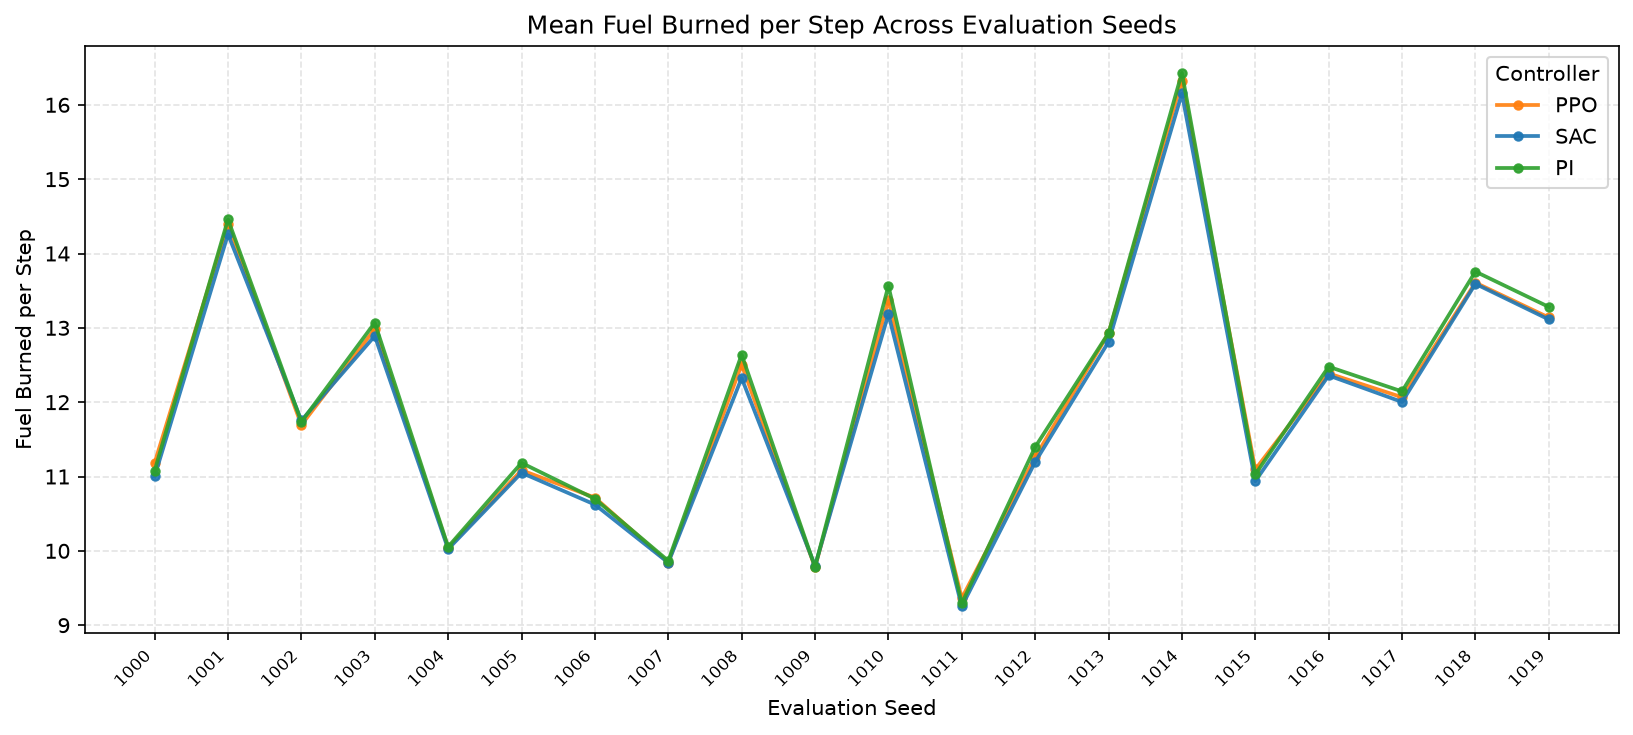
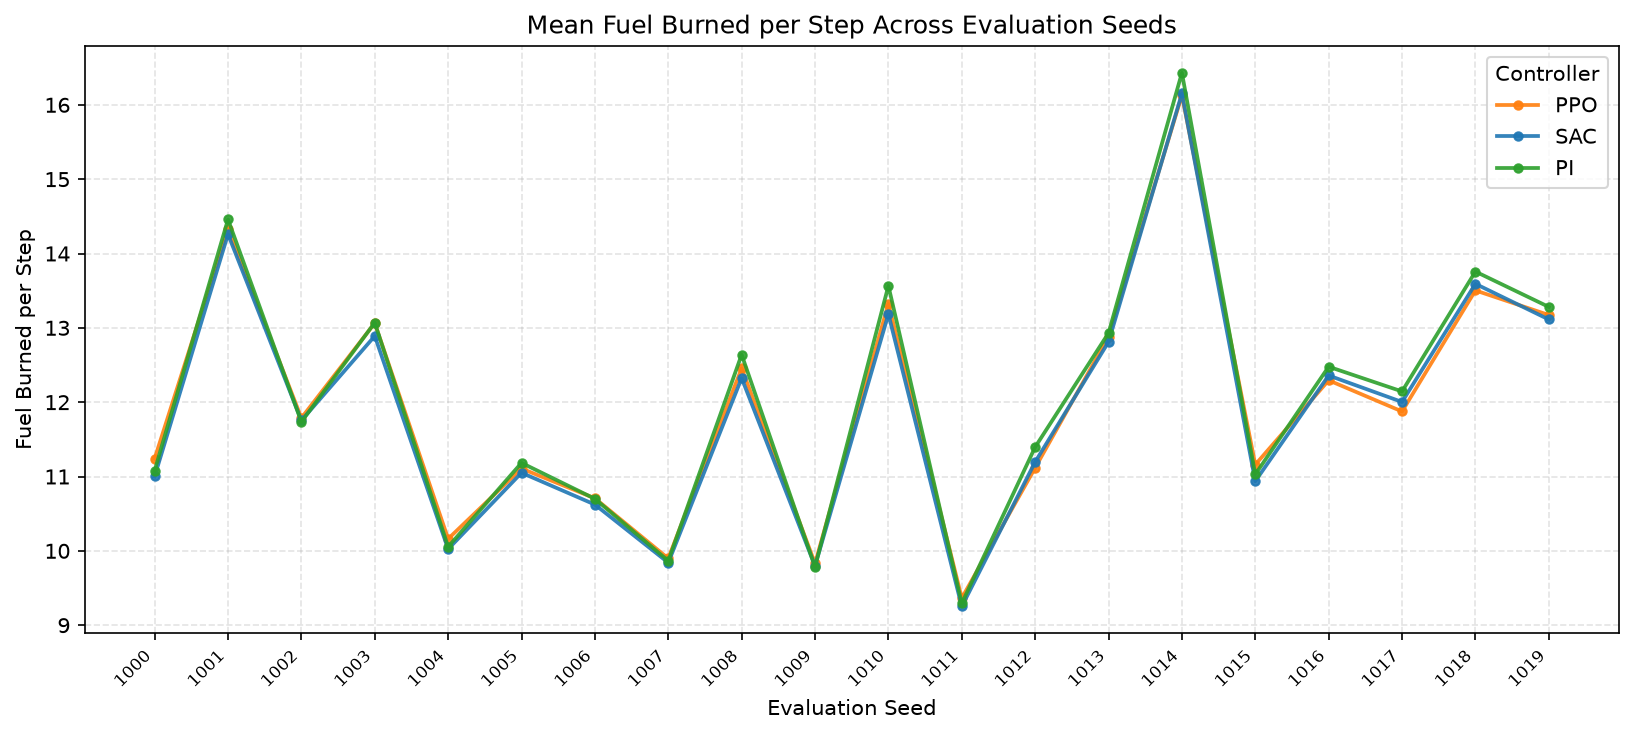
re-evaluated SAC plots with logarithmic axes

diff --git a/SAC Evaluation.py b/SAC Evaluation.py
@@ -102,6 +102,8 @@ def plot_metrics(seeds):
   
   axs[0].set_title("Actor Loss")
   axs[1].set_title("Critic Loss")
+  axs[0].set_yscale("log") # log scale to better see value loss
+  axs[1].set_yscale("log") # log scale to better see value loss
 
   plt.suptitle(f'SAC Metrics (All Seeds)', fontsize=16)
   plt.tight_layout()
